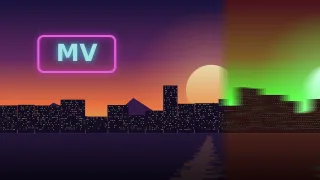
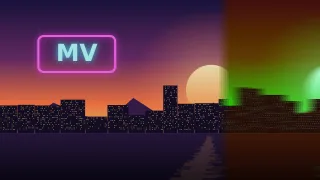
fix(engine): hue turns saturated colors instead of darkening them; exposure keeps them saturated
Hue rotates in the BT.709 Cb/Cr plane, which keeps luma; where the turned
color leaves 0..1 it keeps hue and chroma and gives up luma, so a pure blue
turns violet (or yellow halfway round) instead of black. Colors pushed past
white by exposure or brightness come back by their brightest channel and
ease toward white only further past it, so a brightened pure green stays
green instead of turning white. A tone test renders every combination of
adjustments, so every finish-pass variant compiles in CI.

Changed region(s): [[0.6875, 0.0833, 1.0, 0.6389]]

diff --git a/tests/e2e/tone.spec.ts b/tests/e2e/tone.spec.ts
@@ -300,3 +300,80 @@ test('contrast keeps fully saturated solids, text and visualizers at full streng
   const hue = (Math.atan2(Math.sqrt(3) * (eg - eb), 2 * er - eg - eb) * 180) / Math.PI
   expect(Math.abs(hue - 30)).toBeLessThan(4)
 })
+
+test('hue turns saturated colors instead of darkening them, exposure keeps them saturated, every variant compiles', async ({
+  page,
+}) => {
+  await openHarness(page)
+  const r = await page.evaluate(async () => {
+    const { model, testing } = window.mvStudio
+    const W = 32
+    const H = 18
+    const { compositor } = testing.createCompositor('export', W, H)
+    const solid = async (color: string, adjustments: Record<string, number>) => {
+      const p = model.createProject({ name: 'solid' })
+      const clip = model.createSolidClip({ trackId: p.tracks[0].id, color, start: 0, duration: 4 })
+      clip.adjustments = Object.fromEntries(Object.entries(adjustments).map(([k, value]) => [k, { value }]))
+      p.clips[clip.id] = clip
+      await compositor.render(p, 1)
+      const px = testing.readPixels(compositor.canvas, W, H) as Uint8ClampedArray
+      const i = ((H / 2) * W + W / 2) * 4
+      return [px[i]!, px[i + 1]!, px[i + 2]!]
+    }
+    const hue = {
+      blueA: await solid('#0000ff', { hue: 0.2 }),
+      blueWithContrast: await solid('#0000ff', { hue: 0.2, contrast: 0.3 }),
+      blueHalfway: await solid('#0000ff', { hue: 1 }),
+      muted: await solid('#806060', { hue: 0.3 }),
+      mutedSource: await solid('#806060', {}),
+    }
+    const exposure: Record<string, number[][]> = {}
+    for (const color of ['#00ff00', '#ffff00', '#00ffff', '#ff0000'])
+      exposure[color] = [
+        await solid(color, { exposure: 0.3 }),
+        await solid(color, { exposure: 0.3, saturation: 0.001 }),
+      ]
+    const nearWhite = await solid('#e0e0e0', { exposure: 1 })
+    // Every combination of adjustments, which reaches every finish-pass variant.
+    const keys = ['exposure', 'brightness', 'contrast', 'saturation', 'temperature', 'tint', 'hue']
+    const source = await solid('#3366cc', {})
+    const unchanged: string[] = []
+    for (let m = 1; m < 1 << keys.length; m++) {
+      const set = keys.filter((_, i) => m & (1 << i))
+      const c = await solid('#3366cc', Object.fromEntries(set.map((k) => [k, 0.3])))
+      if (c.every((v, i) => Math.abs(v - source[i]!) < 2)) unchanged.push(set.join('+'))
+    }
+    compositor.dispose()
+    return { hue, exposure, nearWhite, unchanged }
+  })
+  console.log('hue/exposure', JSON.stringify(r))
+  const hueOf = ([red, g, b]: number[]) =>
+    (Math.atan2(Math.sqrt(3) * (g! - b!), 2 * red! - g! - b!) * 180) / Math.PI
+  const luma = ([red, g, b]: number[]) => 0.2126 * red! + 0.7152 * g! + 0.0722 * b!
+  // A hue turn keeps a saturated blue saturated: violet a little way round, yellow halfway, never dark gray or black.
+  for (const [red, g, b] of [r.hue.blueA, r.hue.blueWithContrast]) {
+    expect(red).toBeGreaterThan(100)
+    expect(g).toBeLessThanOrEqual(5)
+    expect(b).toBeGreaterThanOrEqual(240)
+  }
+  const [hr, hg, hb] = r.hue.blueHalfway
+  expect(Math.min(hr!, hg!)).toBeGreaterThan(200)
+  expect(hb).toBeLessThan(40)
+  // A color the turn keeps in range keeps its luma.
+  expect(Math.abs(luma(r.hue.muted) - luma(r.hue.mutedSource))).toBeLessThan(3)
+  expect(Math.abs(hueOf(r.hue.muted) - hueOf(r.hue.mutedSource))).toBeGreaterThan(20)
+  // Exposure past white keeps saturated colors saturated and in their hue, with or without other adjustments.
+  for (const [color, [alone, withSaturation]] of Object.entries(r.exposure)) {
+    const want = [1, 3, 5].map((i) => parseInt(color.slice(i, i + 2), 16))
+    for (let c = 0; c < 3; c++) {
+      if (want[c] === 255) expect(alone![c], `${color} channel ${c}`).toBeGreaterThanOrEqual(254)
+      else expect(alone![c], `${color} channel ${c}`).toBeLessThan(45)
+      expect(Math.abs(alone![c]! - withSaturation![c]!), `${color} with saturation`).toBeLessThanOrEqual(2)
+    }
+    const d = Math.abs(hueOf(alone!) - hueOf(want)) % 360
+    expect(Math.min(d, 360 - d), `${color} hue`).toBeLessThan(3)
+  }
+  // Colors close to white do turn white when pushed far past it.
+  for (const v of r.nearWhite) expect(v).toBeGreaterThanOrEqual(250)
+  expect(r.unchanged).toEqual([])
+})

diff --git a/src/engine/shaders.ts b/src/engine/shaders.ts
@@ -92,13 +92,13 @@ vec3 fitGamut(vec3 c, float knee) {
 }
 
 /**
- * Pulls the chroma of c, which has no channel below 0, toward its luma just enough to bring every channel to 1 or
- * below, keeping hue and luma; colors inside are unchanged.
+ * Brings a color pushed past white back under it by its brightest channel, so it keeps its hue and saturation (a
+ * brightened pure green stays green), and eases it toward white only as it goes further past, as film highlights do.
  */
-vec3 clipWhite(vec3 c) {
-  float l = dot(c, LUMA_709);
+vec3 fitBright(vec3 c) {
   float hi = max(c.r, max(c.g, c.b));
-  return l >= 1.0 ? vec3(1.0) : l + (c - l) * min((1.0 - l) / max(hi - l, 1e-5), 1.0);
+  float over = max(hi - 1.0, 0.0);
+  return mix(c / max(hi, 1.0), vec3(1.0), over / (over + 3.0));
 }
 
 /** S-curve with slope k > 1 at pivot p that flattens into 0 and 1, for two values at once. */
@@ -129,8 +129,9 @@ vec3 contrastCurve(vec3 c, float k, float p) {
 `
 /**
  * Color adjustments, matte and opacity in one pass over a premultiplied layer. Contrast above 0 is an S-curve and
- * below 0 a fade (to 40% at -1, so the extreme stays usable); out-of-range colors roll off toward their luma, so no
- * setting clips channels or shifts hue, and neutral settings leave the layer unchanged. CURVE (contrast above 0), COLOR
+ * below 0 a fade (to 40% at -1, so the extreme stays usable). Colors pushed past white keep their hue and saturation
+ * and ease toward white, other out-of-range colors roll off toward their luma, so no setting clips channels or shifts
+ * hue, and neutral settings leave the layer unchanged. CURVE (contrast above 0), COLOR
  * (brightness, temperature, tint, hue, saturation) and HUE compile in only the adjustments a layer uses, see
  * `finishShader`.
  */
@@ -152,10 +153,21 @@ uniform float u_tint;
 uniform float u_hue;
 out vec4 outColor;
 ${TONE_GLSL}
+/**
+ * Rotates the hue of c by angle a in the BT.709 Cb/Cr plane, which keeps luma. Where the rotated color leaves 0..1
+ * (beyond where c already was), it keeps its hue and chroma and gives up luma instead: lifted out of the negatives,
+ * then scaled under the top. So a saturated blue turns violet, or yellow halfway round, instead of dark and gray.
+ */
 vec3 hueRotate(vec3 c, float a) {
-  const vec3 k = vec3(0.57735);
-  float cosA = cos(a);
-  return c * cosA + cross(k, c) * sin(a) + k * dot(k, c) * (1.0 - cosA);
+  float lo0 = min(min(c.r, min(c.g, c.b)), 0.0);
+  float hi0 = max(max(c.r, max(c.g, c.b)), 1.0);
+  float y = dot(c, LUMA_709);
+  vec2 cbcr = mat2(cos(a), sin(a), -sin(a), cos(a)) * vec2((c.b - y) / 1.8556, (c.r - y) / 1.5748);
+  float r = y + 1.5748 * cbcr.y;
+  float b = y + 1.8556 * cbcr.x;
+  c = vec3(r, (y - 0.2126 * r - 0.0722 * b) / 0.7152, b);
+  c -= min(min(c.r, min(c.g, c.b)) - lo0, 0.0);
+  return c * (hi0 / max(max(c.r, max(c.g, c.b)), hi0));
 }
 
 void main() {
@@ -169,6 +181,8 @@ void main() {
 #ifdef COLOR
     rgb += u_brightness * 0.5;
 #endif
+    // Contrast and fade keep colors in 0..1, so without COLOR this is the only fitting needed.
+    rgb = fitBright(rgb);
 #ifdef CURVE
     rgb = contrastCurve(rgb, 1.0 + u_contrast, 0.5);
 #else
@@ -181,10 +195,6 @@ void main() {
 #endif
     float l = dot(rgb, LUMA_709);
     rgb = fitGamut(mix(vec3(l), rgb, 1.0 + u_saturation), knee);
-#else
-    // Exposure, contrast and fade keep in-range colors in range and never go below 0, so only colors pushed past
-    // white need fitting, without the soft knee.
-    rgb = clipWhite(rgb);
 #endif
     c = vec4(clamp(rgb, 0.0, 1.0) * c.a, c.a);
   }

diff --git a/src/plugins/thumbnails.manifest.ts b/src/plugins/thumbnails.manifest.ts
@@ -26,24 +26,24 @@ export const THUMBNAILS: Record<string, Record<string, string>> = {
     'camera-3d': '4c11a86292',
   },
   transition: {
-    fade: 'c54cc52ef2',
+    fade: '522806bbab',
     flash: '1faa1fed48',
     zoom: 'cd40fef819',
-    'wipe-left': '2236004b0b',
+    'wipe-left': 'aa396dbe2e',
     dip: '43e77da175',
-    wipe: '362593972d',
-    iris: 'ea252f40af',
-    clock: 'b5f200ca32',
-    blinds: '524146115c',
-    'luma-wipe': 'f30b141e7f',
-    'noise-dissolve': 'f839cb76f8',
-    slide: '569250746c',
-    push: 'f7a0ea4895',
-    'whip-pan': '1d9b26d076',
+    wipe: 'cd9ea1186d',
+    iris: '13e872ac88',
+    clock: '3bf90ea7a0',
+    blinds: '6a82ab785b',
+    'luma-wipe': '87dd03192c',
+    'noise-dissolve': 'e7a2326ef6',
+    slide: '1919baa71f',
+    push: 'dc3819f782',
+    'whip-pan': '7d8cb4e5e5',
     'zoom-blur': '2263bfdf72',
     spin: 'b76a206479',
-    'glitch-cut': '445f0c3927',
-    'light-burn': '99f8a3def0',
+    'glitch-cut': '4223650703',
+    'light-burn': 'aecedc0b62',
   },
   generator: {
     'visualizer.spectrum': '26cd285b90',
@@ -82,11 +82,11 @@ export const THUMBNAILS: Record<string, Record<string, string>> = {
     warm: 'fa6ca78ca4',
     vintage: '8abc7ea013',
     moody: 'eb57e3e68b',
-    dreamy: '90a37736b5',
+    dreamy: '6a18474b32',
     mono: '47e4309b14',
     vivid: 'f71d14c3f2',
     cinematic: '999be7e7fd',
-    vhs: '8a0fe57d4e',
+    vhs: '1245ad2830',
     ice: '8bdb2d8db0',
     ember: 'f64581f121',
   },
